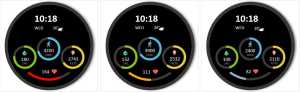
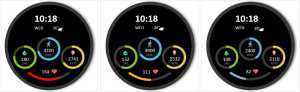
update figures

diff --git a/data/publications.js b/data/publications.js
@@ -383,7 +383,7 @@ export const publications = [
         author: "<strong>Lijie Yao*</strong>. \n Advisors: Petra Isenberg, Anastasia Bezerianos. \n Jury committee: Gilles Bally, Niklas Elmqvist, Morten Fjeld, Uta Hinrichs, Wendy Mackay, Melanie Tory.",
         subtitle: "Human-Computer Interaction [cs.HC]. Université Paris-Saclay, 2023. English. NNT: 2023UPASG093.",
         description: "The doctoral dissertation of Lijie Yao, which received the PhD Thesis Prize from AFIHM.",
-        teaser: "assets/teaser/doctoralthesis.png",
+        teaser: "assets/teaser/doctoralthesis.jpg",
         year: 2023,
         icons: [
             {
@@ -411,7 +411,7 @@ export const publications = [
         author: "<strong>Lijie Yao*</strong>, Anastasia Bezerianos, Romain Vuillmot, Petra Isenberg",
         subtitle: "IEEE Transactions on Visualization and Computer Graphics, 2022, 28(10), pp.3546-3562, doi: 10.1109/TVCG.2022.3184993.",
         description: "We contribute a research agenda for visualization in motion and two experiments to understand how well viewers can read data from moving visualizations. We define visualizations in motion as visual data representations that are used in contexts that exhibit relative motion between a viewer and an entire visualization. Sports analytics, video games, wearable devices, or data physicalizations are example contexts that involve different types of relative motion between a viewer and a visualization. To analyze the opportunities and challenges for designing visualization in motion, we show example scenarios and outline a first research agenda. Motivated primarily by the prevalence of and opportunities for visualizations in sports and video games we started to investigate a small aspect of our research agenda: the impact of two important characteristics of motion---speed and trajectory on a stationary viewer's ability to read data from moving donut and bar charts. We found that increasing speed and trajectory complexity did negatively affect the accuracy of reading values from the charts and that bar charts were more negatively impacted. In practice, however, this impact was small: both charts were still read fairly accurately.",
-        teaser: "assets/teaser/visinmotion.png",
+        teaser: "assets/teaser/visinmotion.jpg",
         year: 2022,
         icons: [
             {
@@ -500,7 +500,7 @@ export const publications = [
         author: "Fairouz Grioui*, Tanja Blascheck, <strong>Lijie Yao</strong>, Petra Isenberg",
         subtitle: "Short Papers of the IEEE Conference on Visualization, October 2024, Florida, United States, doi: 10.1109/VIS55277.2024.00017.",
         description: "With two studies, we assess how different walking trajectories (straight line, circular, and infinity) and speeds (2km/h, 4km/h, and 6km/h) influence the accuracy and response time of participants reading micro visualizations on a smartwatch. We showed our participants common watch face micro visualizations including date, time, weather information, and four complications showing progress charts of fitness data. Our findings suggest that while walking trajectories did not significantly affect reading performance, overall walking activity, especially at high speeds, hurt reading accuracy and, to some extent, response time. Supplemental material is available at <a href=\"https://osf.io/u78s6/\" target=\"_blank\">osf.io/u78s6/</a>.\n                                    ",
-        teaser: "assets/teaser/smartwatch.JPG",
+        teaser: "assets/teaser/smartwatch.jpg",
         year: 2024,
         icons: [
             {
@@ -536,7 +536,7 @@ export const publications = [
         author: "Charles Perin*, Tica Lin, <strong>Lijie Yao</strong>, Yalong Yang, Maxime Cordeil, Wesley Willett.",
         subtitle: "Selected proposals for workshops of the IEEE VIS, Oct. 2024, Florida, United States.",
         description: "The select proposals of the workshops at IEEE VIS 2022.",
-        teaser: "assets/teaser/fpvis.png",
+        teaser: "assets/teaser/fpvis.jpg",
         year: 2024,
         icons: [
             {
@@ -558,7 +558,7 @@ export const publications = [
         author: "<strong>Lijie Yao*</strong>.",
         subtitle: "Selected proposals for Doctoral Colloquium of the IEEE VIS, Oct. 2022, Oklahoma City, United States.",
         description: "The select proposals of the doctoral colloquium at IEEE VIS 2022.",
-        teaser: "assets/teaser/dc.png",
+        teaser: "assets/teaser/dc.jpg",
         year: 2022,
         icons: [
             {
@@ -788,7 +788,7 @@ export const publications = [
         author: "<strong>Lijie Yao*</strong>, Anastasia Bezerianos, Petra Isenberg",
         subtitle: "Posters of the IEEE Conference on Visualization, October 2020, Salt Lake City, United States.",
         description: "We contribute a first design space on visualizations in motion and the design of a pilot study we plan to run in the fall. Visualizations can be useful in contexts where either the observation is in motion or the whole visualization is moving at various speeds. Imagine, for example, displays attached to an athlete or animal that show data about the wearer – for example, captured from a fitness tracking band; or a visualization attached to a moving object such as a vehicle or a soccer ball. The ultimate goal of our research is to inform the design of visualizations under motion.\n                                    ",
-        teaser: "assets/teaser/vim.PNG",
+        teaser: "assets/teaser/vim.jpg",
         year: 2020,
         icons: [
             {
